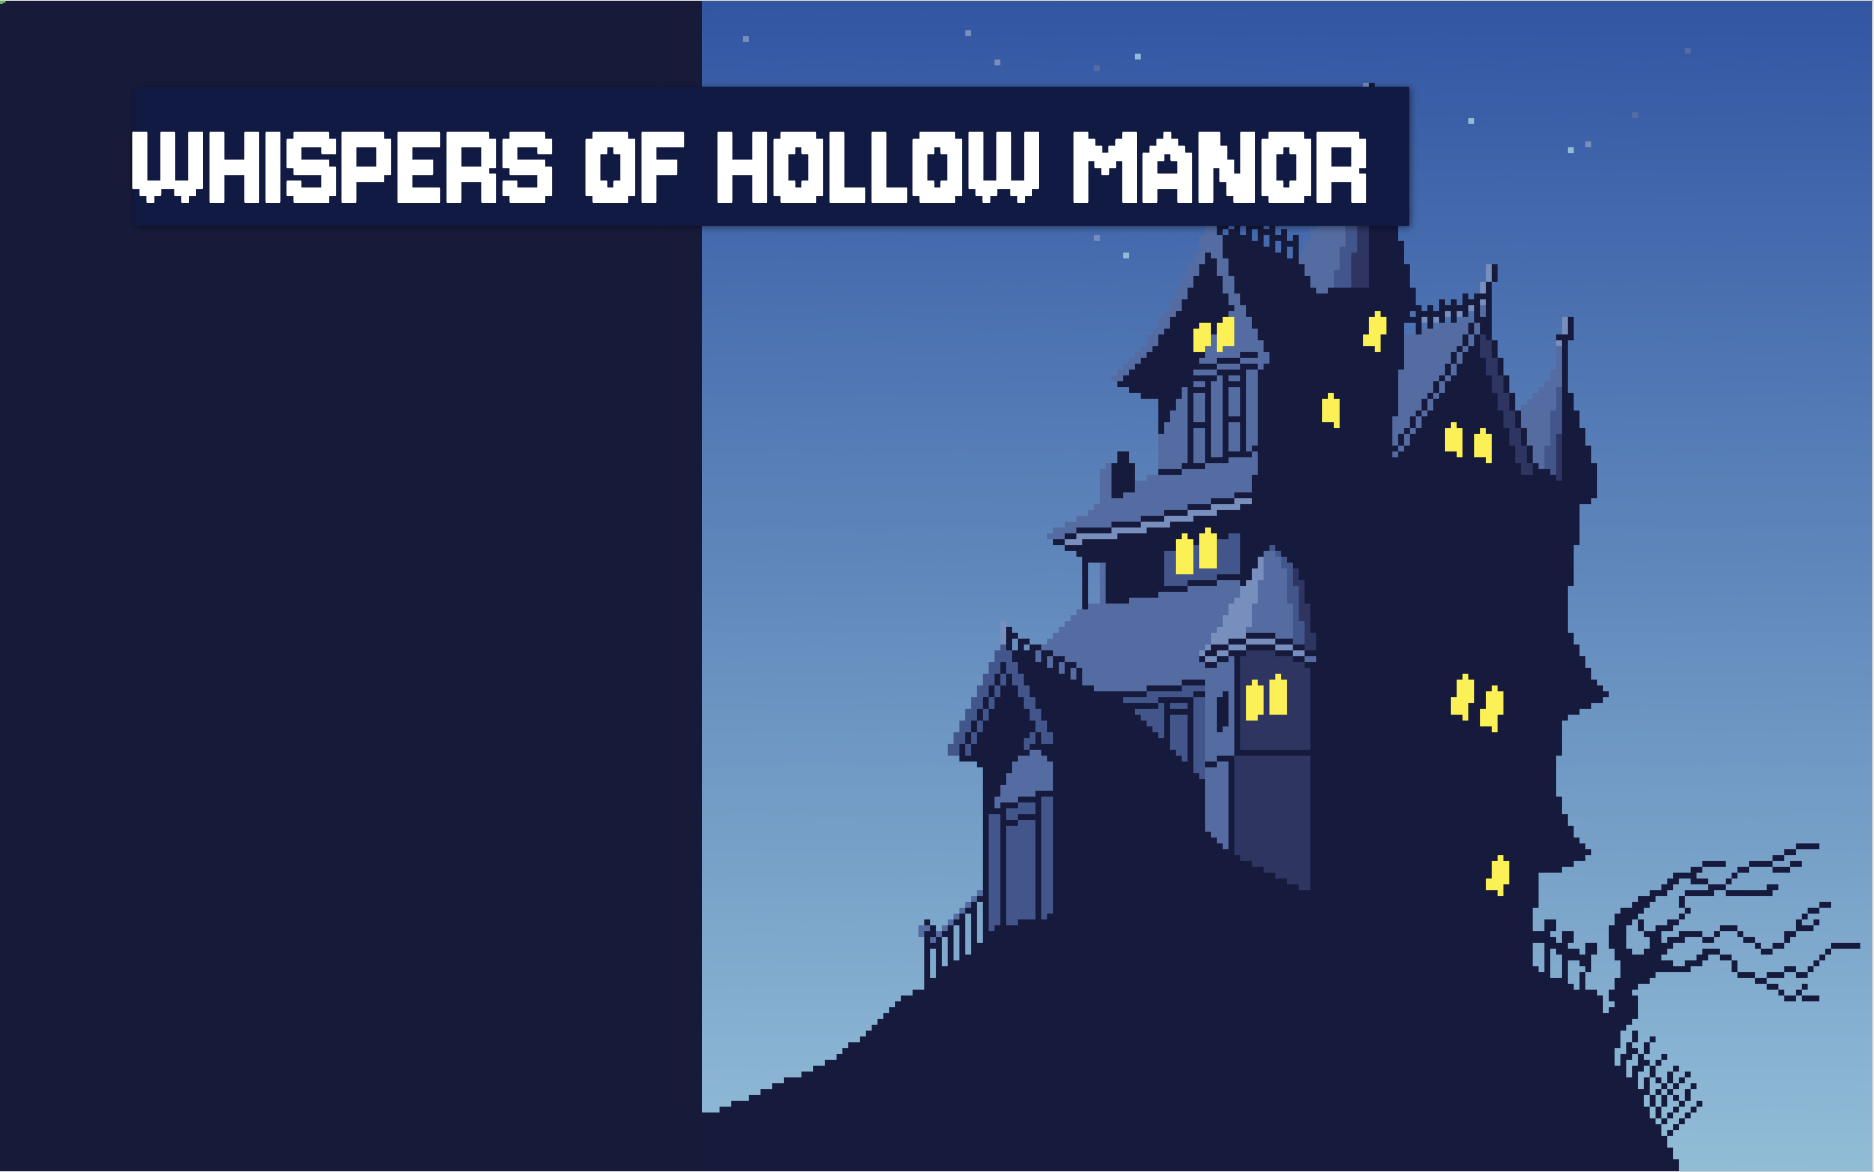
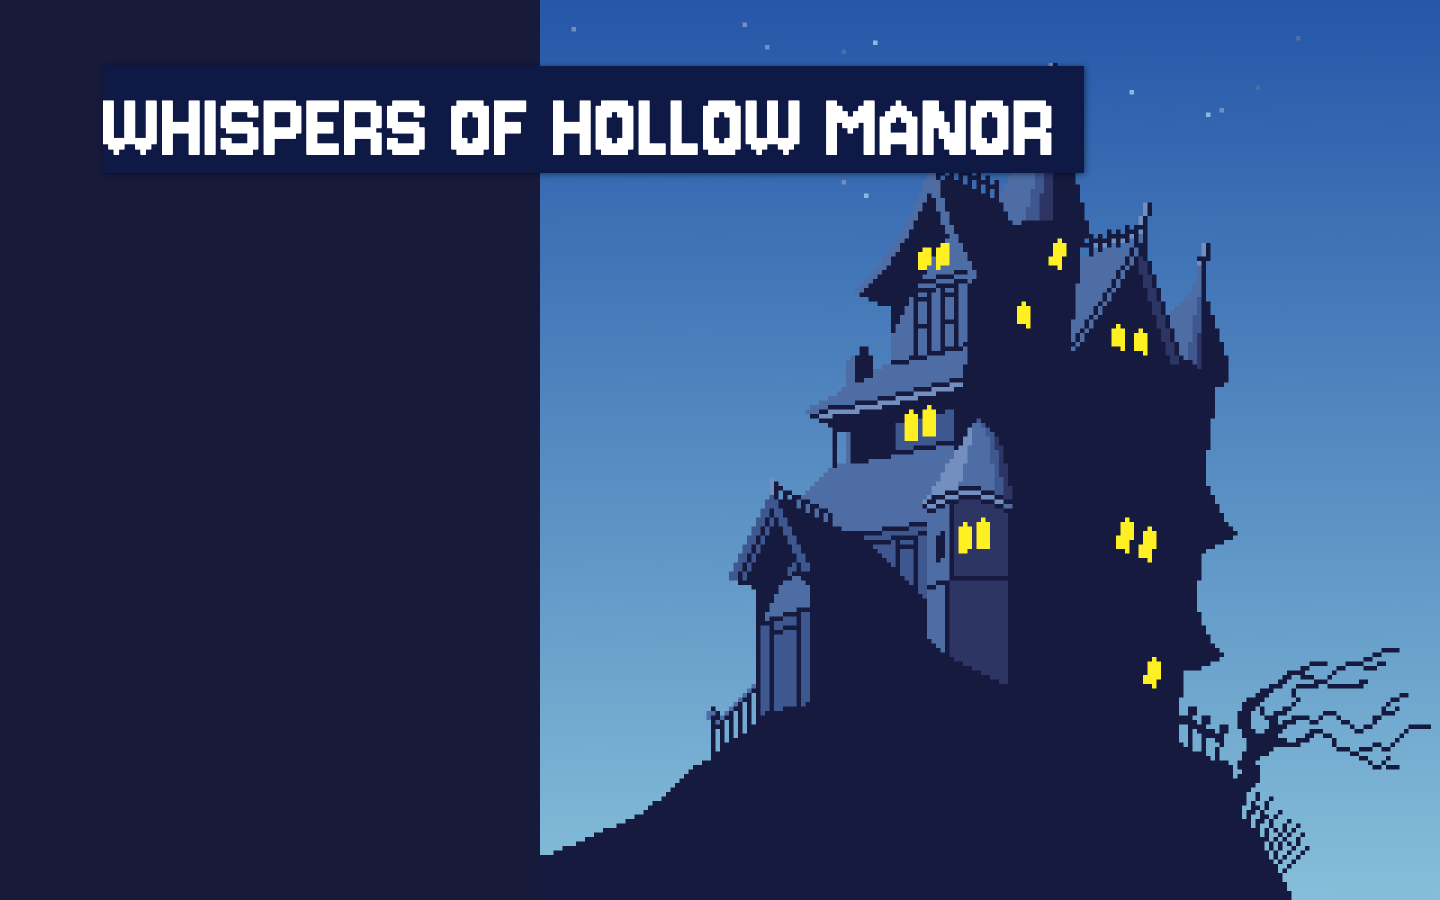
styling updates

diff --git a/src/main/resources/com/escapegame/styles.css b/src/main/resources/com/escapegame/styles.css
@@ -6,19 +6,30 @@
   -fx-background-color: transparent;
 }
 
+@font-face {
+    font-family: "Jersey 10";
+    src: url("fonts/Jersey10-Regular.ttf");
+}
+
+
 .label {
     -fx-text-fill: #FFFFFF;
-    -fx-font-size: 14px;
+    -fx-font-size: 32px;
     -fx-font-family: "Jersey 10";
 }
 
 .button {
     -fx-background-color: #313561;
     -fx-text-fill: #FFFFFF;
-    -fx-font-size: 16px;
+    -fx-font-size: 20px;
+    -fx-font-family: "Jersey 10";
     -fx-padding: 10px 20px;
     -fx-border-radius: 5px;
     -fx-background-radius: 5px;
+}
+
+.button:hover {
+    -fx-background-color: rgba(255, 255, 255, 0.2);
 }
 
 .body {

diff --git a/src/main/java/com/escapegame/App.java b/src/main/java/com/escapegame/App.java
@@ -20,7 +20,7 @@ public class App extends Application {
     @Override
     public void start(Stage stage) throws Exception {
         Parent root = loadFXML("home");
-        scene = new Scene(root, 1280, 720);
+        scene = new Scene(root, 1440, 900);
 
         // Load stylesheet automatically from possible locations
         tryLoadStylesheet(scene);
@@ -37,7 +37,7 @@ public class App extends Application {
     public static void setRoot(String fxml) throws IOException {
         if (scene == null) {
             Parent root = loadFXML("home");
-            scene = new Scene(root, 1280, 720);
+            scene = new Scene(root, 1440, 900);
             tryLoadStylesheet(scene);
         }
         scene.setRoot(loadFXML(fxml));
